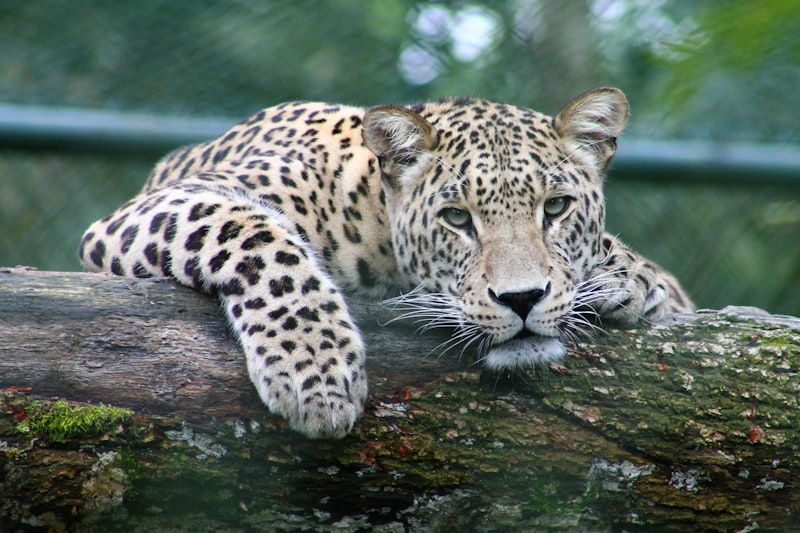
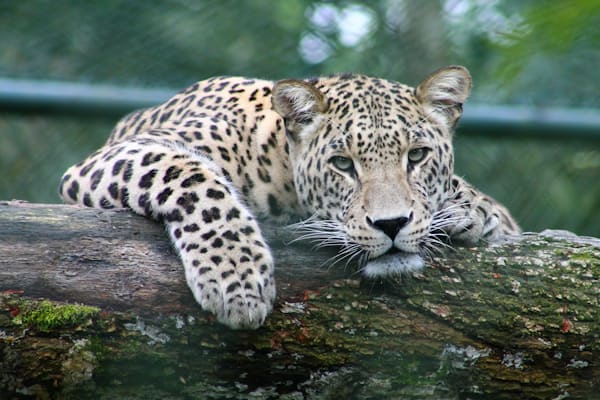
updated files

Changed region(s): [[0.51, 0.54, 0.6, 0.66], [0.72, 0.54, 0.75, 0.63], [0.39, 0.21, 0.42, 0.24]]

diff --git a/download_images.js b/download_images.js
@@ -15,26 +15,26 @@ if (!fs.existsSync(imagesDir)) {
 }
 
 const imagesToDownload = [
-  { url: "https://images.unsplash.com/photo-1549366021-9f761d450615?q=80&w=800", filename: "jawai_dam.jpg" },
-  { url: "https://images.unsplash.com/photo-1566073771259-6a8506099945?q=80&w=800", filename: "luxury_cottage.jpg" },
-  { url: "https://images.unsplash.com/photo-1581888227599-779811939961?q=80&w=800", filename: "jungle_safari.jpg" },
-  { url: "https://images.unsplash.com/photo-1602491453631-e2a5ad90a131?q=80&w=800", filename: "leopard_wild.jpg" },
-  { url: "https://images.unsplash.com/photo-1504280390367-361c6d9f38f4?q=80&w=800", filename: "campfires.jpg" },
-  { url: "https://images.unsplash.com/photo-1464822759023-fed622ff2c3b?q=80&w=800", filename: "granite_hills.jpg" },
-  { url: "https://images.unsplash.com/photo-1506744038136-46273834b3fb?q=80&w=800", filename: "sunset_view.jpg" },
-  { url: "https://images.unsplash.com/photo-1470240731273-7821a6eeb6bd?q=80&w=800", filename: "nature_banner.jpg" },
-  { url: "https://images.unsplash.com/photo-1547471080-7cc2caa01a7e?q=80&w=800", filename: "contact_banner.jpg" },
-  { url: "https://images.unsplash.com/photo-1456926631375-92c8ce872def?q=80&w=800", filename: "leopard_safari.jpg" },
-  { url: "https://images.unsplash.com/photo-1613977257363-707ba9348227?q=80&w=800", filename: "luxury_villa.jpg" },
-  { url: "https://images.unsplash.com/photo-1576013551627-0cc20b96c2a7?q=80&w=800", filename: "swimming_pool.jpg" },
-  { url: "https://images.unsplash.com/photo-1542314831-068cd1dbfeeb?q=80&w=800", filename: "eco_resort.jpg" },
-  { url: "https://images.unsplash.com/photo-1517248135467-4c7edcad34c4?q=80&w=800", filename: "fine_dining.jpg" },
-  { url: "https://images.unsplash.com/photo-1580587771525-78b9dba3b914?q=80&w=800", filename: "private_villa.jpg" },
-  { url: "https://images.unsplash.com/photo-1530541930197-ff16ac917b0e?q=80&w=800", filename: "recreation.jpg" },
-  { url: "https://images.unsplash.com/photo-1464366400600-7168b8af9bc3?q=80&w=800", filename: "birthday_party.jpg" },
-  { url: "https://images.unsplash.com/photo-1511578314322-379afb476865?q=80&w=800", filename: "corporate_events.jpg" },
-  { url: "https://images.unsplash.com/photo-1582719508461-905c673771fd?q=80&w=800", filename: "resort_pool.jpg" },
-  { url: "https://images.unsplash.com/photo-1510312305653-8ed496efae75?q=80&w=800", filename: "safari_tent.jpg" }
+  { url: "https://images.unsplash.com/photo-1549366021-9f761d450615?auto=format&fit=crop&w=600&q=50", filename: "jawai_dam.jpg" },
+  { url: "https://images.unsplash.com/photo-1566073771259-6a8506099945?auto=format&fit=crop&w=600&q=50", filename: "luxury_cottage.jpg" },
+  { url: "https://images.unsplash.com/photo-1581888227599-779811939961?auto=format&fit=crop&w=600&q=50", filename: "jungle_safari.jpg" },
+  { url: "https://images.unsplash.com/photo-1602491453631-e2a5ad90a131?auto=format&fit=crop&w=600&q=50", filename: "leopard_wild.jpg" },
+  { url: "https://images.unsplash.com/photo-1504280390367-361c6d9f38f4?auto=format&fit=crop&w=600&q=50", filename: "campfires.jpg" },
+  { url: "https://images.unsplash.com/photo-1464822759023-fed622ff2c3b?auto=format&fit=crop&w=600&q=50", filename: "granite_hills.jpg" },
+  { url: "https://images.unsplash.com/photo-1506744038136-46273834b3fb?auto=format&fit=crop&w=600&q=50", filename: "sunset_view.jpg" },
+  { url: "https://images.unsplash.com/photo-1470240731273-7821a6eeb6bd?auto=format&fit=crop&w=600&q=50", filename: "nature_banner.jpg" },
+  { url: "https://images.unsplash.com/photo-1547471080-7cc2caa01a7e?auto=format&fit=crop&w=600&q=50", filename: "contact_banner.jpg" },
+  { url: "https://images.unsplash.com/photo-1456926631375-92c8ce872def?auto=format&fit=crop&w=600&q=50", filename: "leopard_safari.jpg" },
+  { url: "https://images.unsplash.com/photo-1613977257363-707ba9348227?auto=format&fit=crop&w=600&q=50", filename: "luxury_villa.jpg" },
+  { url: "https://images.unsplash.com/photo-1576013551627-0cc20b96c2a7?auto=format&fit=crop&w=600&q=50", filename: "swimming_pool.jpg" },
+  { url: "https://images.unsplash.com/photo-1542314831-068cd1dbfeeb?auto=format&fit=crop&w=600&q=50", filename: "eco_resort.jpg" },
+  { url: "https://images.unsplash.com/photo-1517248135467-4c7edcad34c4?auto=format&fit=crop&w=600&q=50", filename: "fine_dining.jpg" },
+  { url: "https://images.unsplash.com/photo-1580587771525-78b9dba3b914?auto=format&fit=crop&w=600&q=50", filename: "private_villa.jpg" },
+  { url: "https://images.unsplash.com/photo-1530541930197-ff16ac917b0e?auto=format&fit=crop&w=600&q=50", filename: "recreation.jpg" },
+  { url: "https://images.unsplash.com/photo-1464366400600-7168b8af9bc3?auto=format&fit=crop&w=600&q=50", filename: "birthday_party.jpg" },
+  { url: "https://images.unsplash.com/photo-1511578314322-379afb476865?auto=format&fit=crop&w=600&q=50", filename: "corporate_events.jpg" },
+  { url: "https://images.unsplash.com/photo-1582719508461-905c673771fd?auto=format&fit=crop&w=600&q=50", filename: "resort_pool.jpg" },
+  { url: "https://images.unsplash.com/photo-1510312305653-8ed496efae75?auto=format&fit=crop&w=600&q=50", filename: "safari_tent.jpg" }
 ];
 
 function downloadImage(url, dest) {

diff --git a/src/components/Footer.tsx b/src/components/Footer.tsx
@@ -6,13 +6,13 @@ export const Footer: React.FC = () => {
   return (
     <footer className="relative bg-[#120e0a] border-t border-white/5 pt-16 pb-8 overflow-hidden">
       {/* Subtle jungle background overlay */}
-      <div 
-        className="absolute inset-0 opacity-soft pointer-events-none"
-        style={{
-          backgroundImage: `url('/images/jawai_dam.jpg')`,
-          backgroundSize: 'cover',
-          backgroundPosition: 'center',
-        }}
+      <img 
+        src="/images/jawai_dam.jpg" 
+        alt="Jawai Dam background"
+        className="absolute inset-0 w-full h-full object-cover opacity-soft pointer-events-none"
+        loading="lazy"
+        width="1200"
+        height="400"
       />
       
       {/* Forest tree silhouette decorative svg at the top of the footer */}
@@ -31,6 +31,9 @@ export const Footer: React.FC = () => {
                  src="/images/JAWWAI LOGO.png" 
                  alt="Jawai Rock Resort Logo" 
                  className="h-16 w-auto object-contain"
+                 loading="lazy"
+                 width="120"
+                 height="64"
                  style={{ transform: 'scale(1.7)', transformOrigin: 'left center' }}
                />
              </Link>

diff --git a/index.html b/index.html
@@ -15,7 +15,10 @@
     <!-- Google Fonts -->
     <link rel="preconnect" href="https://fonts.googleapis.com">
     <link rel="preconnect" href="https://fonts.gstatic.com" crossorigin>
-    <link href="https://fonts.googleapis.com/css2?family=Inter:wght@300;400;500;600;700&family=Outfit:wght@300;400;500;600;700;800&display=swap" rel="stylesheet">
+    <link rel="preload" href="https://fonts.googleapis.com/css2?family=Inter:wght@300;400;500;600;700&family=Outfit:wght@300;400;500;600;700;800&display=swap" as="style" onload="this.onload=null;this.rel='stylesheet'">
+    <noscript>
+      <link href="https://fonts.googleapis.com/css2?family=Inter:wght@300;400;500;600;700&family=Outfit:wght@300;400;500;600;700;800&display=swap" rel="stylesheet">
+    </noscript>
   </head>
   <body>
     <div id="root">

diff --git a/src/components/Navbar.tsx b/src/components/Navbar.tsx
@@ -53,6 +53,8 @@ export const Navbar: React.FC = () => {
               src="/images/JAWWAI LOGO.png" 
               alt="Jawai Rock Resort Logo" 
               className="h-16 w-auto object-contain transition-all duration-500 group-hover:opacity-80"
+              width="150"
+              height="64"
               style={{ 
                 transform: 'scale(1.7)', 
                 transformOrigin: 'left center',
